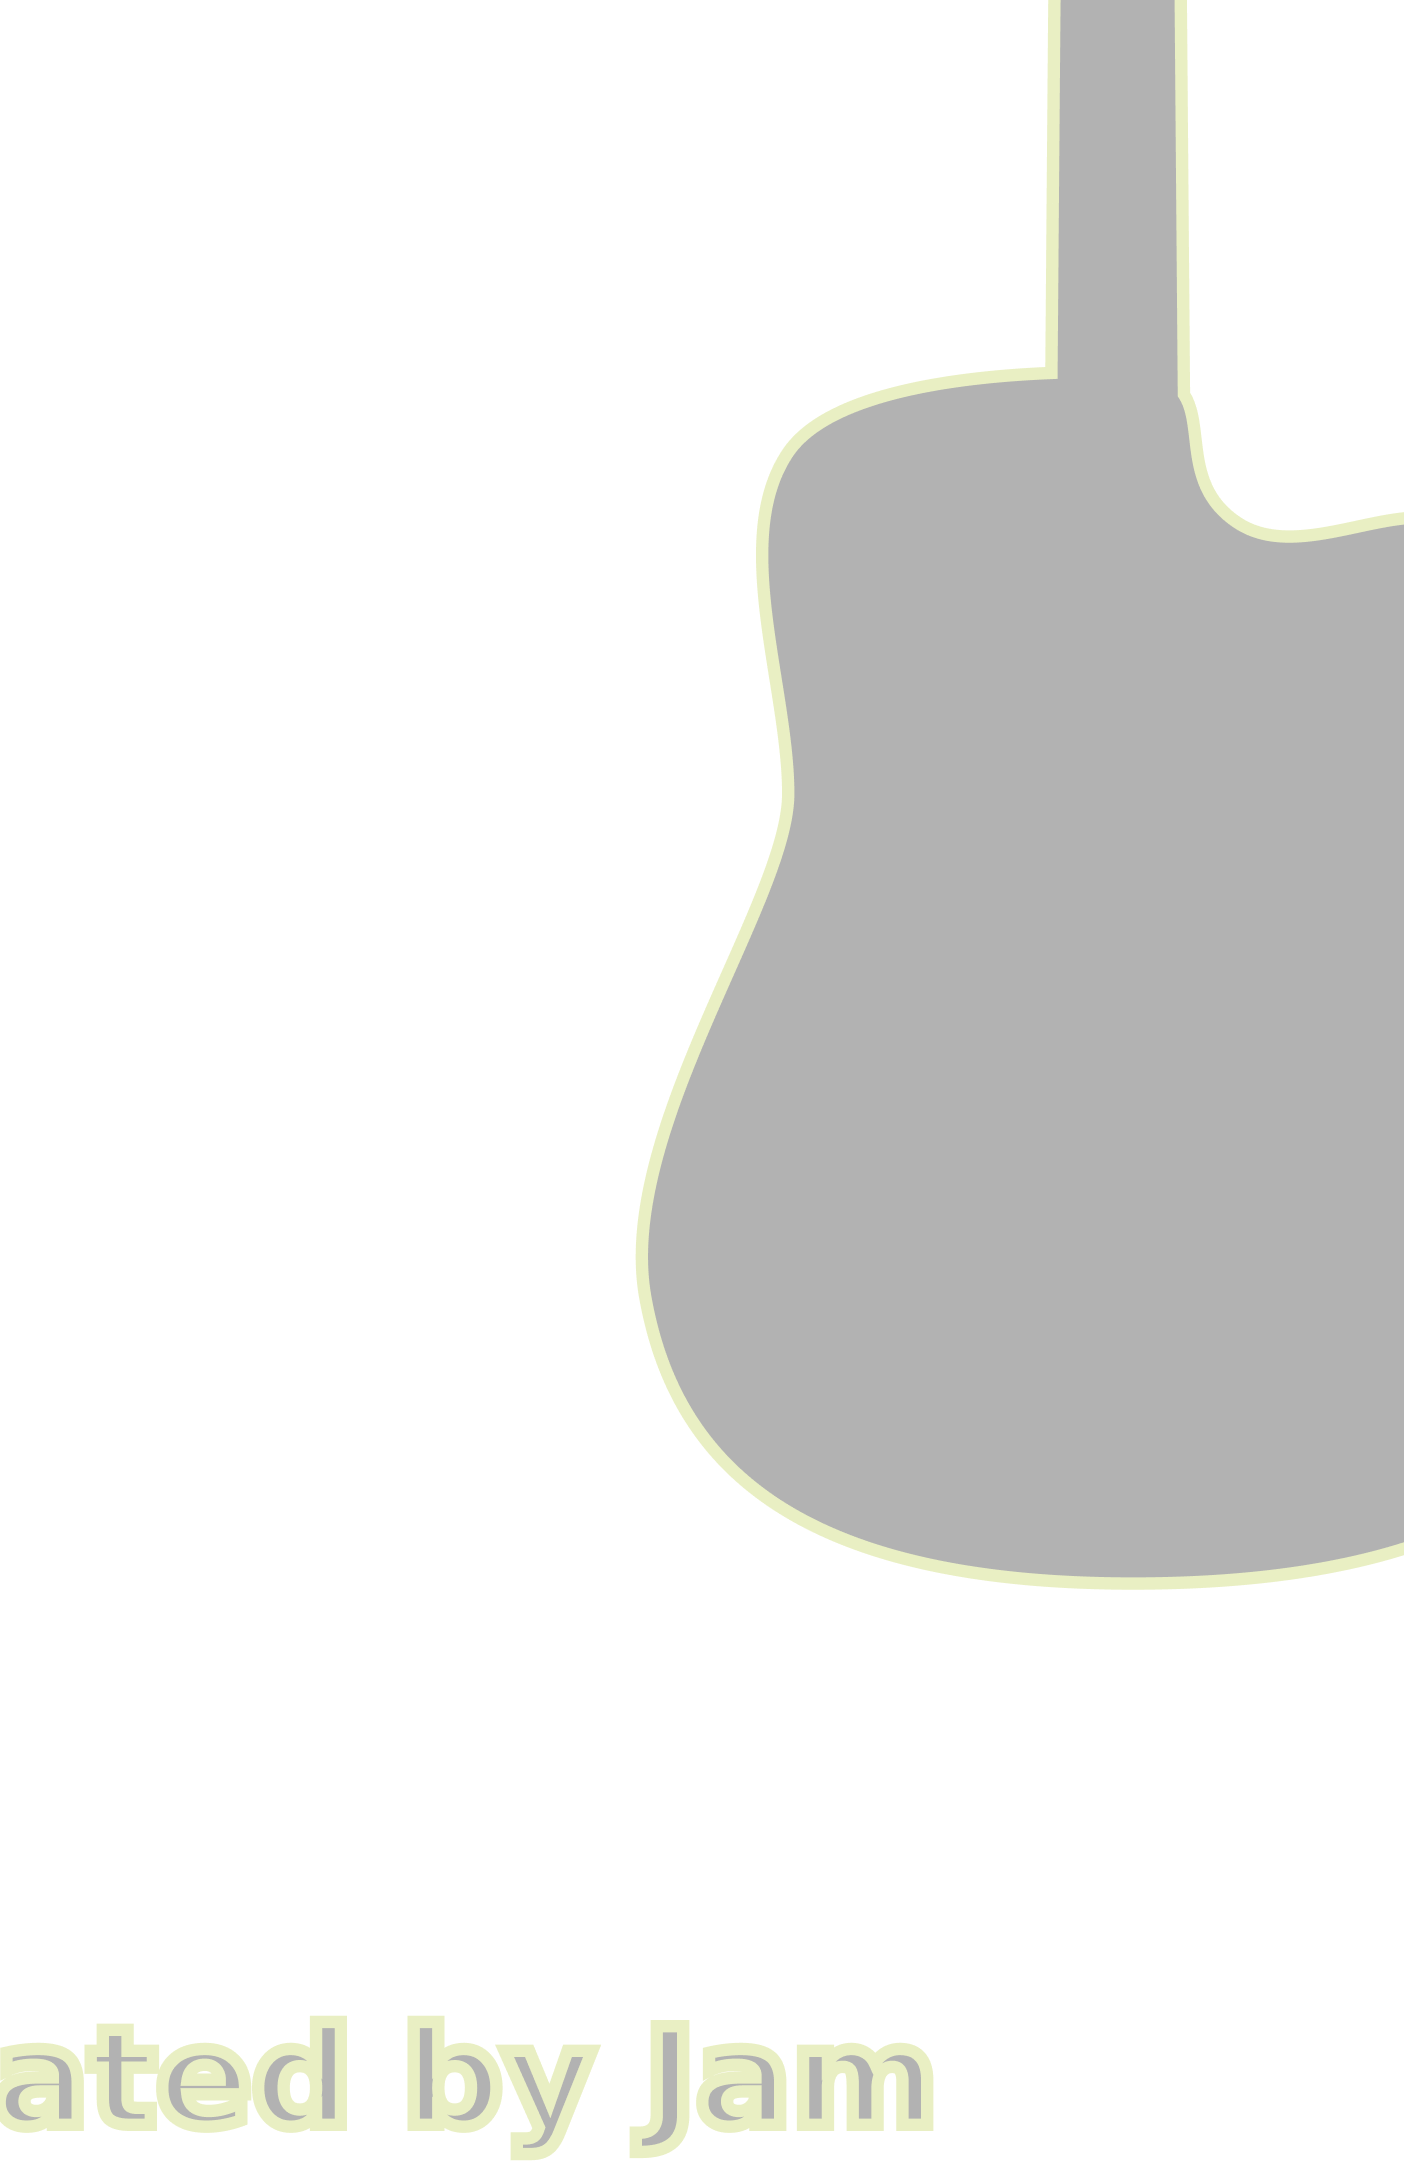
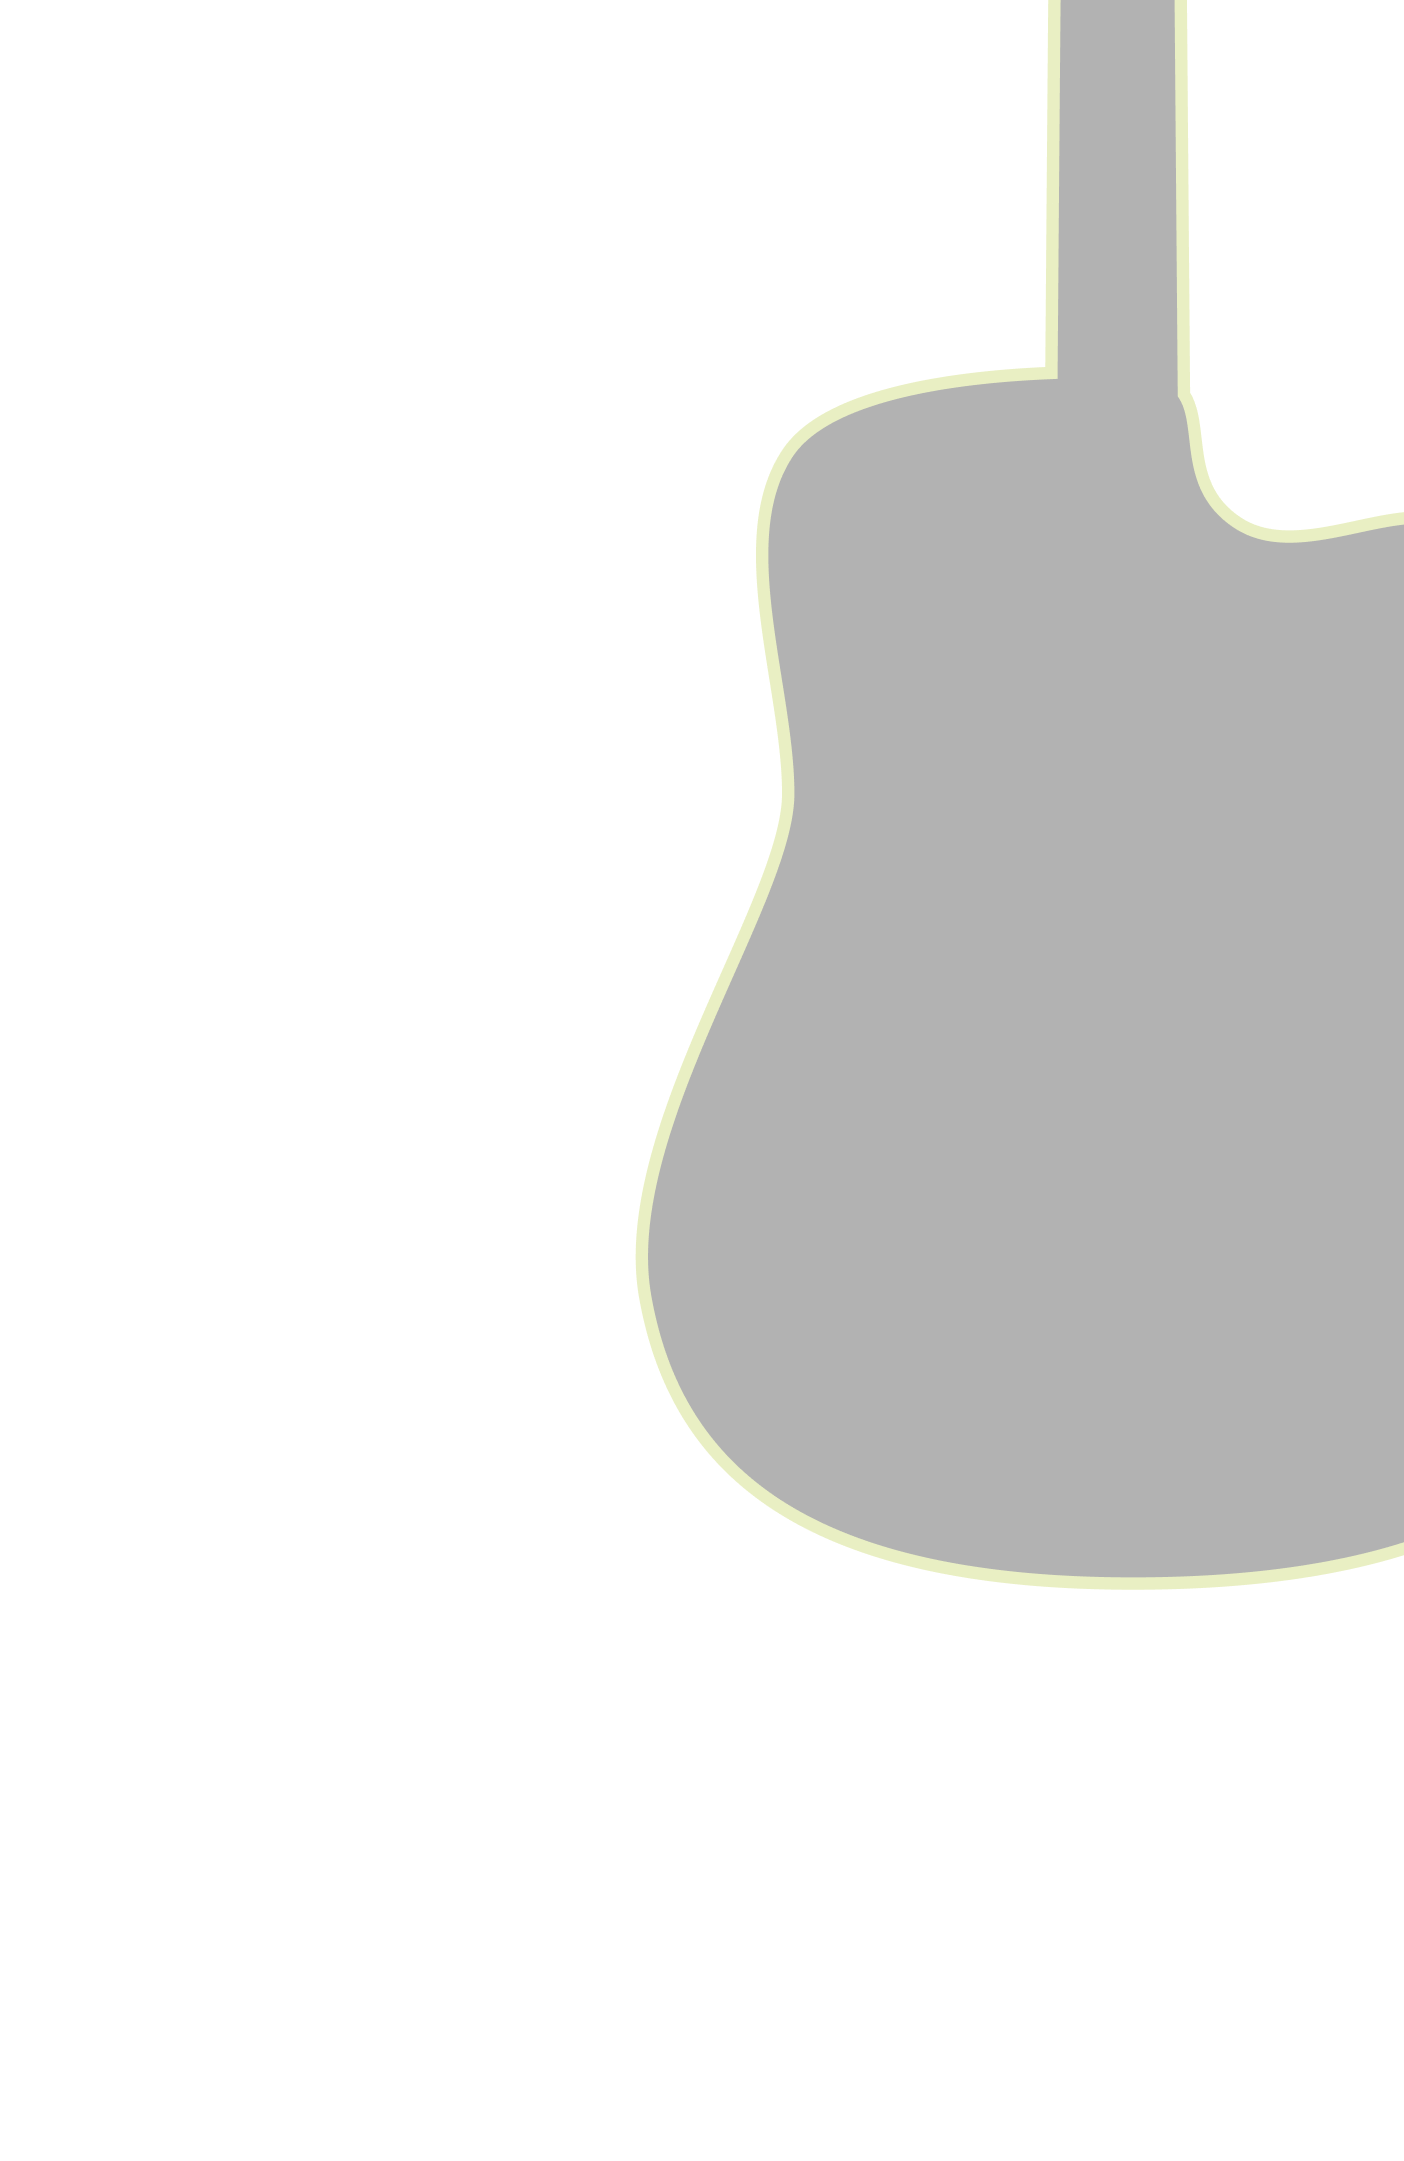
adding

Changed region(s): [[0.4288, 0.9301, 0.6738, 1.0], [0.0, 0.9301, 0.245, 0.9921], [0.2756, 0.9301, 0.4288, 1.0]]

diff --git a/public/ourservices.css b/public/ourservices.css
@@ -43,6 +43,21 @@ body {
     color: white;
 }
 
+.guitar-image {
+    position: absolute;
+    margin-top: -100em;
+    margin-left: 10em;
+    z-index: -1;
+}
+
+.guitar-image-bottom {
+    position: absolute;
+    transform: rotate(85deg);
+    margin-top: 5em;
+    z-index: -1;
+    margin-left: 60em;
+}
+
 .detail-top {
     display: flex;
     width: 40%;

diff --git a/public/ourband.css b/public/ourband.css
@@ -7,6 +7,14 @@ body {
     margin: 0;
 }
 
+.background-guitar {
+    position: absolute;
+    margin-top: -25em;
+    transform: rotate(10deg);
+    margin-left: 30em;
+    z-index: -1;
+}
+
 .three-columns a {
     background: none;
     display: inline;

diff --git a/public/main.css b/public/main.css
@@ -46,11 +46,12 @@ h1 {
 }
 
 .bodyh1 {
-    margin-top: 4vw;
+    margin-top: 1em;
 }
 
 .lefth1 {
     margin-right: 20vw;
+    margin-top: 3em;
 }
 
 .righth1 {

diff --git a/public/realourservices.css b/public/realourservices.css
@@ -1,0 +1,3 @@
+body {
+    background: #464141;
+}
